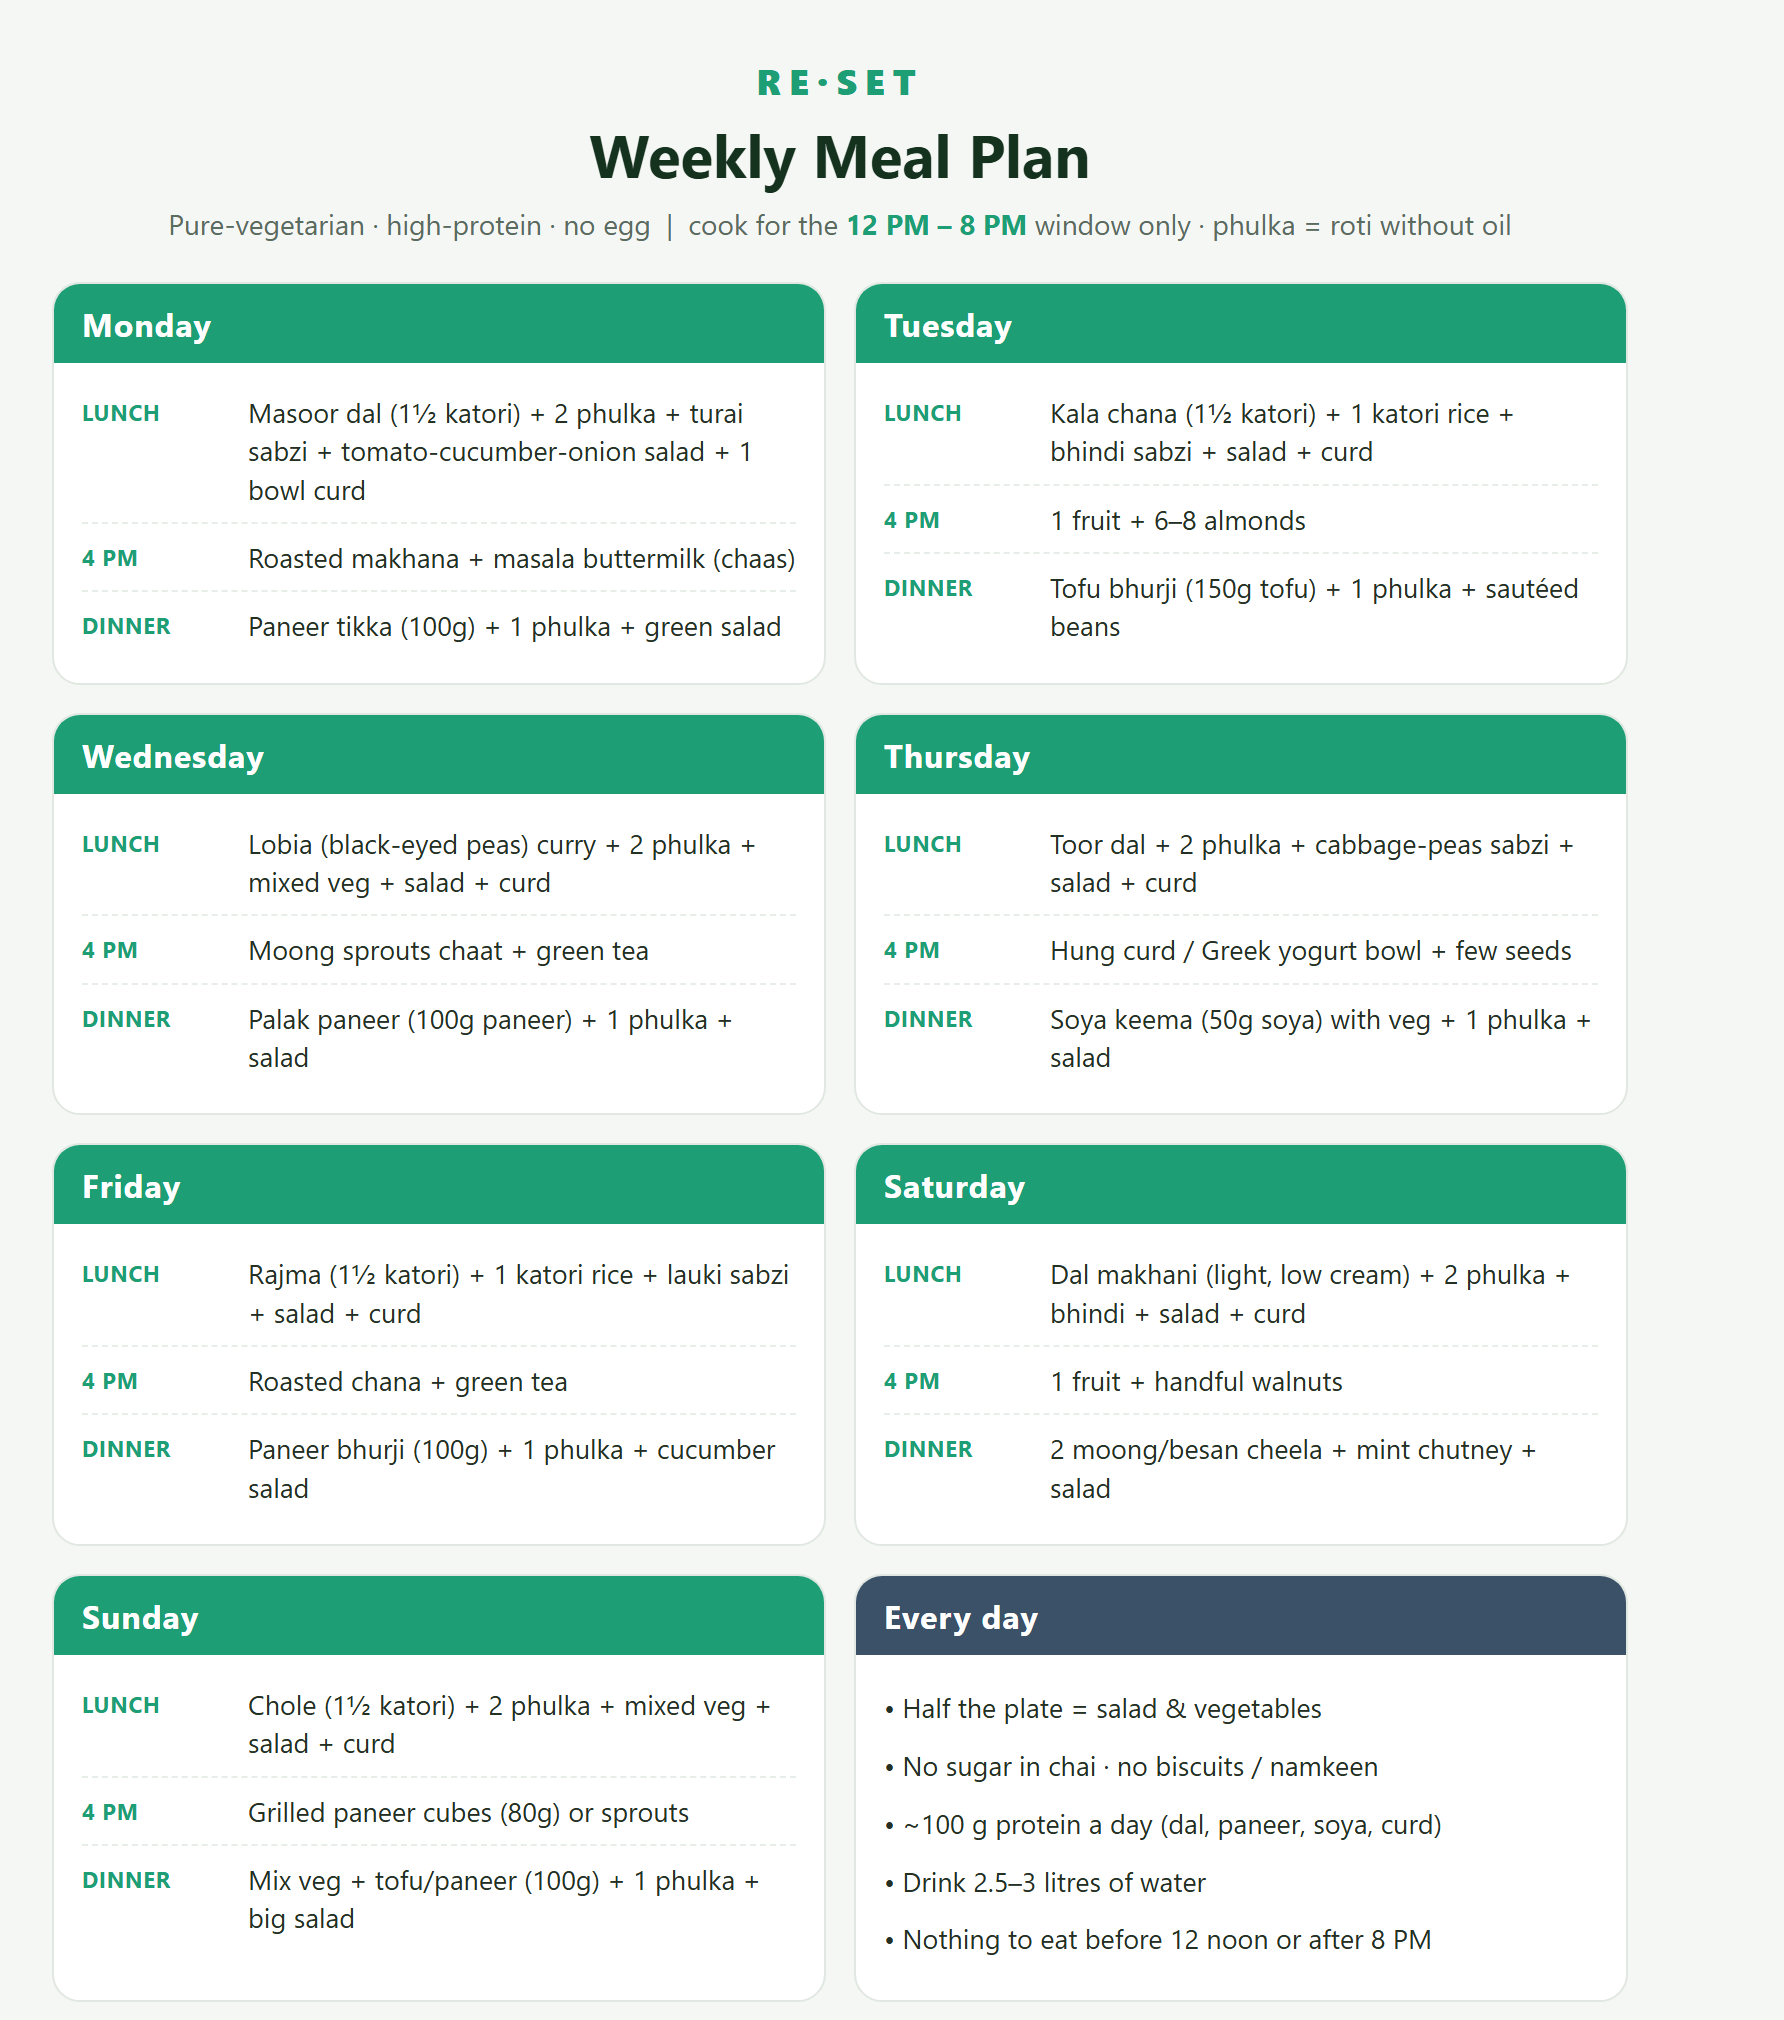
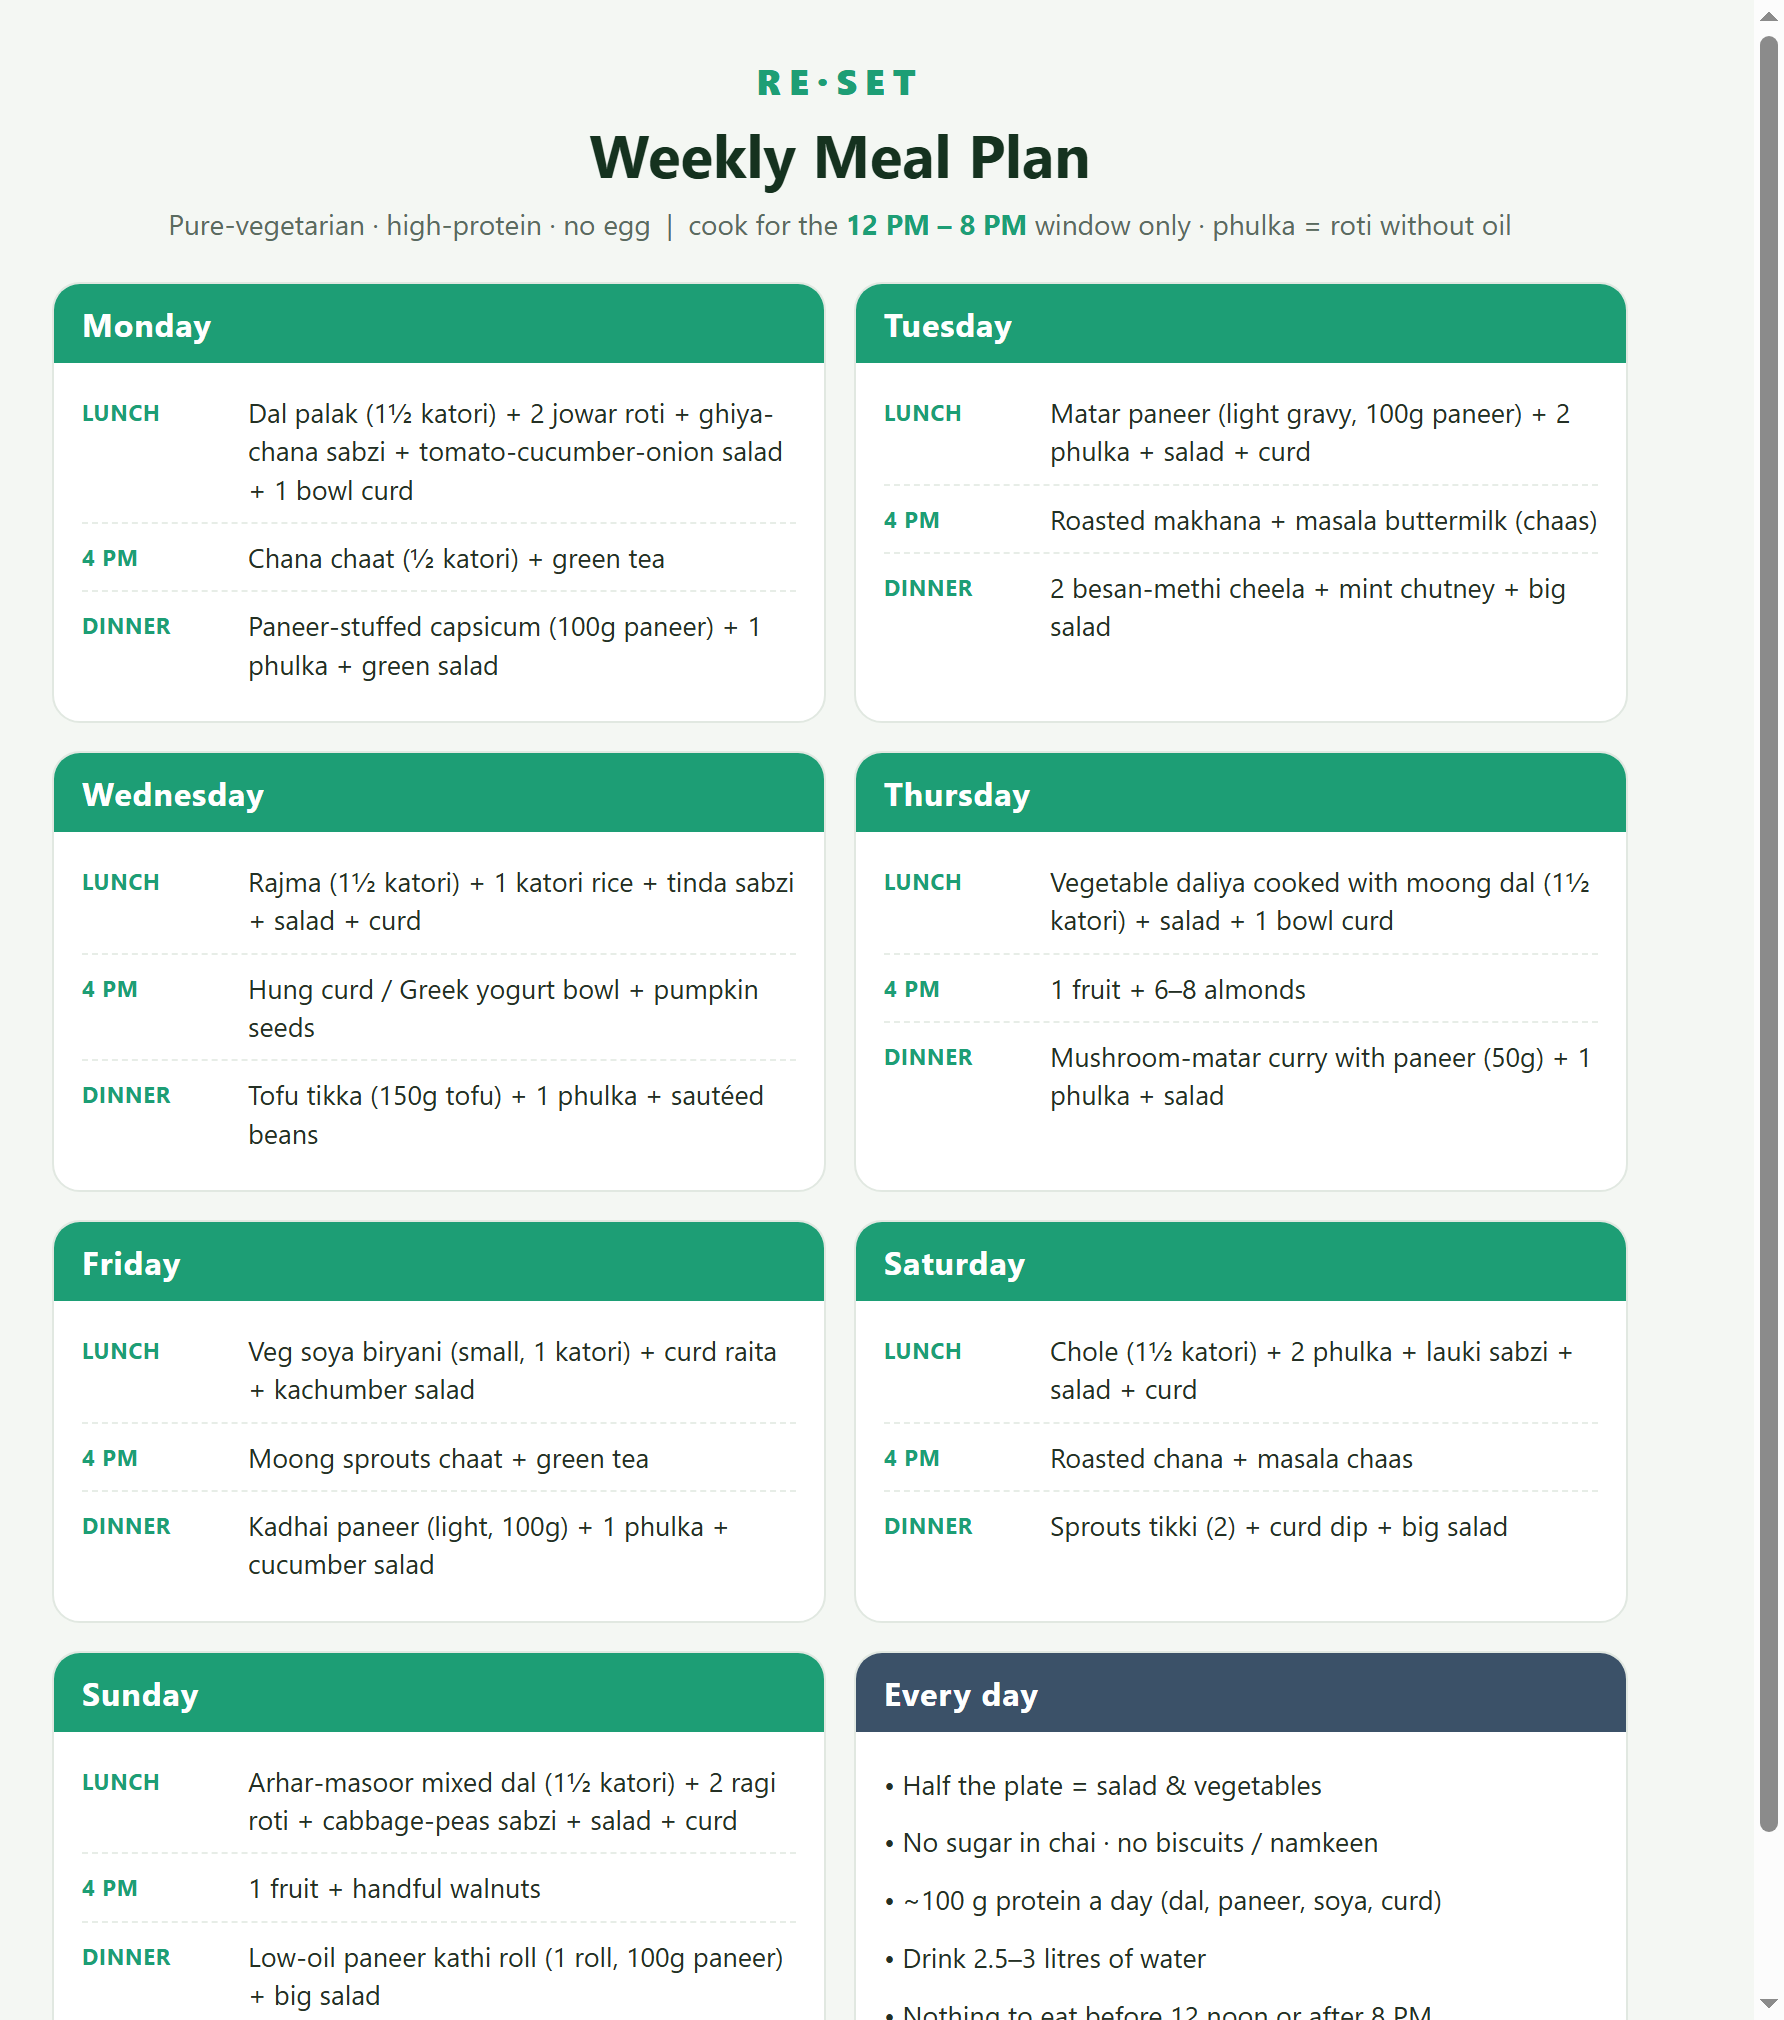
Sync pending local changes

diff --git a/meal-chart.html b/meal-chart.html
@@ -29,39 +29,39 @@
   </div>
   <div class="grid">
     <div class="day"><div class="dh">Monday</div><div class="meals">
-      <div class="row"><div class="lab">Lunch</div><div class="dish">Masoor dal (1&frac12; katori) + 2 phulka + turai sabzi + tomato-cucumber-onion salad + 1 bowl curd</div></div>
-      <div class="row"><div class="lab">4 PM</div><div class="dish">Roasted makhana + masala buttermilk (chaas)</div></div>
-      <div class="row"><div class="lab">Dinner</div><div class="dish">Paneer tikka (100g) + 1 phulka + green salad</div></div>
+      <div class="row"><div class="lab">Lunch</div><div class="dish">Dal palak (1&frac12; katori) + 2 jowar roti + ghiya-chana sabzi + tomato-cucumber-onion salad + 1 bowl curd</div></div>
+      <div class="row"><div class="lab">4 PM</div><div class="dish">Chana chaat (&frac12; katori) + green tea</div></div>
+      <div class="row"><div class="lab">Dinner</div><div class="dish">Paneer-stuffed capsicum (100g paneer) + 1 phulka + green salad</div></div>
     </div></div>
     <div class="day"><div class="dh">Tuesday</div><div class="meals">
-      <div class="row"><div class="lab">Lunch</div><div class="dish">Kala chana (1&frac12; katori) + 1 katori rice + bhindi sabzi + salad + curd</div></div>
-      <div class="row"><div class="lab">4 PM</div><div class="dish">1 fruit + 6&ndash;8 almonds</div></div>
-      <div class="row"><div class="lab">Dinner</div><div class="dish">Tofu bhurji (150g tofu) + 1 phulka + saut&eacute;ed beans</div></div>
+      <div class="row"><div class="lab">Lunch</div><div class="dish">Matar paneer (light gravy, 100g paneer) + 2 phulka + salad + curd</div></div>
+      <div class="row"><div class="lab">4 PM</div><div class="dish">Roasted makhana + masala buttermilk (chaas)</div></div>
+      <div class="row"><div class="lab">Dinner</div><div class="dish">2 besan-methi cheela + mint chutney + big salad</div></div>
     </div></div>
     <div class="day"><div class="dh">Wednesday</div><div class="meals">
-      <div class="row"><div class="lab">Lunch</div><div class="dish">Lobia (black-eyed peas) curry + 2 phulka + mixed veg + salad + curd</div></div>
-      <div class="row"><div class="lab">4 PM</div><div class="dish">Moong sprouts chaat + green tea</div></div>
-      <div class="row"><div class="lab">Dinner</div><div class="dish">Palak paneer (100g paneer) + 1 phulka + salad</div></div>
+      <div class="row"><div class="lab">Lunch</div><div class="dish">Rajma (1&frac12; katori) + 1 katori rice + tinda sabzi + salad + curd</div></div>
+      <div class="row"><div class="lab">4 PM</div><div class="dish">Hung curd / Greek yogurt bowl + pumpkin seeds</div></div>
+      <div class="row"><div class="lab">Dinner</div><div class="dish">Tofu tikka (150g tofu) + 1 phulka + saut&eacute;ed beans</div></div>
     </div></div>
     <div class="day"><div class="dh">Thursday</div><div class="meals">
-      <div class="row"><div class="lab">Lunch</div><div class="dish">Toor dal + 2 phulka + cabbage-peas sabzi + salad + curd</div></div>
-      <div class="row"><div class="lab">4 PM</div><div class="dish">Hung curd / Greek yogurt bowl + few seeds</div></div>
-      <div class="row"><div class="lab">Dinner</div><div class="dish">Soya keema (50g soya) with veg + 1 phulka + salad</div></div>
+      <div class="row"><div class="lab">Lunch</div><div class="dish">Vegetable daliya cooked with moong dal (1&frac12; katori) + salad + 1 bowl curd</div></div>
+      <div class="row"><div class="lab">4 PM</div><div class="dish">1 fruit + 6&ndash;8 almonds</div></div>
+      <div class="row"><div class="lab">Dinner</div><div class="dish">Mushroom-matar curry with paneer (50g) + 1 phulka + salad</div></div>
     </div></div>
     <div class="day"><div class="dh">Friday</div><div class="meals">
-      <div class="row"><div class="lab">Lunch</div><div class="dish">Rajma (1&frac12; katori) + 1 katori rice + lauki sabzi + salad + curd</div></div>
-      <div class="row"><div class="lab">4 PM</div><div class="dish">Roasted chana + green tea</div></div>
-      <div class="row"><div class="lab">Dinner</div><div class="dish">Paneer bhurji (100g) + 1 phulka + cucumber salad</div></div>
+      <div class="row"><div class="lab">Lunch</div><div class="dish">Veg soya biryani (small, 1 katori) + curd raita + kachumber salad</div></div>
+      <div class="row"><div class="lab">4 PM</div><div class="dish">Moong sprouts chaat + green tea</div></div>
+      <div class="row"><div class="lab">Dinner</div><div class="dish">Kadhai paneer (light, 100g) + 1 phulka + cucumber salad</div></div>
     </div></div>
     <div class="day"><div class="dh">Saturday</div><div class="meals">
-      <div class="row"><div class="lab">Lunch</div><div class="dish">Dal makhani (light, low cream) + 2 phulka + bhindi + salad + curd</div></div>
-      <div class="row"><div class="lab">4 PM</div><div class="dish">1 fruit + handful walnuts</div></div>
-      <div class="row"><div class="lab">Dinner</div><div class="dish">2 moong/besan cheela + mint chutney + salad</div></div>
+      <div class="row"><div class="lab">Lunch</div><div class="dish">Chole (1&frac12; katori) + 2 phulka + lauki sabzi + salad + curd</div></div>
+      <div class="row"><div class="lab">4 PM</div><div class="dish">Roasted chana + masala chaas</div></div>
+      <div class="row"><div class="lab">Dinner</div><div class="dish">Sprouts tikki (2) + curd dip + big salad</div></div>
     </div></div>
     <div class="day"><div class="dh">Sunday</div><div class="meals">
-      <div class="row"><div class="lab">Lunch</div><div class="dish">Chole (1&frac12; katori) + 2 phulka + mixed veg + salad + curd</div></div>
-      <div class="row"><div class="lab">4 PM</div><div class="dish">Grilled paneer cubes (80g) or sprouts</div></div>
-      <div class="row"><div class="lab">Dinner</div><div class="dish">Mix veg + tofu/paneer (100g) + 1 phulka + big salad</div></div>
+      <div class="row"><div class="lab">Lunch</div><div class="dish">Arhar-masoor mixed dal (1&frac12; katori) + 2 ragi roti + cabbage-peas sabzi + salad + curd</div></div>
+      <div class="row"><div class="lab">4 PM</div><div class="dish">1 fruit + handful walnuts</div></div>
+      <div class="row"><div class="lab">Dinner</div><div class="dish">Low-oil paneer kathi roll (1 roll, 100g paneer) + big salad</div></div>
     </div></div>
     <div class="day note"><div class="dh">Every day</div><div class="meals">
       <div class="nlist">

diff --git a/index.html b/index.html
@@ -377,29 +377,28 @@ $('today').textContent = new Date().toLocaleDateString('en-IN',{weekday:'short',
 // ================= MEALS (single source of truth) =================
 const DAYS = ['Sunday','Monday','Tuesday','Wednesday','Thursday','Friday','Saturday'];
 const MEALS = {
-  Monday:   ['Masoor dal (1½ katori) + 2 phulka + turai sabzi + tomato-cucumber-onion salad + 1 bowl curd',
-             'Roasted makhana + masala buttermilk (chaas)',
-             'Paneer tikka (100 g) + 1 phulka + green salad'],
-  Tuesday:  ['Kala chana (1½ katori) + 1 katori rice + bhindi sabzi + salad + curd',
-             '1 fruit + 6–8 almonds',
-             'Tofu bhurji (150 g tofu) + 1 phulka + sautéed beans'],
-  Wednesday:['Lobia (black-eyed peas) curry + 2 phulka + mixed veg + salad + curd',
-             'Moong sprouts chaat + green tea',
-             'Palak paneer (100 g paneer) + 1 phulka + salad'],
-  Thursday: ['Toor dal + 2 phulka + cabbage-peas sabzi + salad + curd',
-             'Hung curd / Greek yogurt bowl + few seeds',
-             'Soya keema (50 g soya) with veg + 1 phulka + salad'],
-  Friday:   ['Rajma (1½ katori) + 1 katori rice + lauki sabzi + salad + curd',
-             'Roasted chana + green tea',
-             'Paneer bhurji (100 g) + 1 phulka + cucumber salad'],
-  Saturday: ['Dal makhani (light, low cream) + 2 phulka + bhindi + salad + curd',
-             '1 fruit + handful walnuts',
-             '2 moong/besan cheela + mint chutney + salad'],
-  Sunday:   ['Chole (1½ katori) + 2 phulka + mixed veg + salad + curd',
-             'Grilled paneer cubes (80 g) or sprouts',
-             'Mix veg + tofu/paneer (100 g) + 1 phulka + big salad']
-};
-function renderMealDays(){
+  Monday:   ['Chole (1½ katori) + 2 phulka + gajar-matar sabzi + kachumber salad + 1 bowl curd',
+             'Paneer-cucumber chaat (60 g paneer, chaat masala) + green tea',
+             'Moong dal chilla stuffed with paneer (2 chilla, 50 g paneer) + mint chutney + big salad'],
+  Tuesday:  ['Rajma (1½ katori) + 1 katori rice + dahi bhindi (low oil) + tomato-onion salad',
+             'Sprouted moong usal (small bowl) + green tea',
+             'Tofu-capsicum stir-fry (150 g tofu, low oil) + 1 phulka + clear veg soup'],
+  Wednesday:['Dal makhani (light, no cream, 1½ katori) + 2 phulka + lauki-tamatar sabzi + salad + curd',
+             'Boiled soya chunks chaat (30 g dry soya) + green tea',
+             'Palak tofu (100 g tofu) + 1 jowar roti + carrot-cucumber salad'],
+  Thursday: ['Urad-chana dal (1½ katori) + 2 bajra roti + mixed veg + salad + curd',
+             '1 apple + 1 small bowl hung curd',
+             'Soya chunk curry (50 g dry soya) + 1 phulka + onion-cucumber salad'],
+  Friday:   ['Sabut masoor dal (1½ katori) + 2 phulka + tori sabzi + salad + curd',
+             'Masala chaas + small handful roasted peanuts',
+             'Rajma tikki (2, pan-grilled) + curd dip + big salad'],
+  Saturday: ['Kadhai paneer (light, 100 g) + 2 phulka + kachumber salad + curd',
+             'Hung curd dip + carrot-cucumber sticks',
+             'Moong dal-palak soup (big bowl) + 1 jowar roti + grilled paneer cubes (50 g)'],
+  Sunday:   ['Paneer-matar pulao (small, 1 katori, 80 g paneer) + cucumber raita + kachumber salad',
+             'Unsweetened buttermilk (1 glass) + 1 tbsp mixed seeds',
+             'Lauki-moong dal (1½ katori) + 1 phulka + big salad']
+};function renderMealDays(){
   const todayName = DAYS[new Date().getDay()];
   $('mealDays').innerHTML = ['Monday','Tuesday','Wednesday','Thursday','Friday','Saturday','Sunday'].map(d=>{
     const m = MEALS[d];
